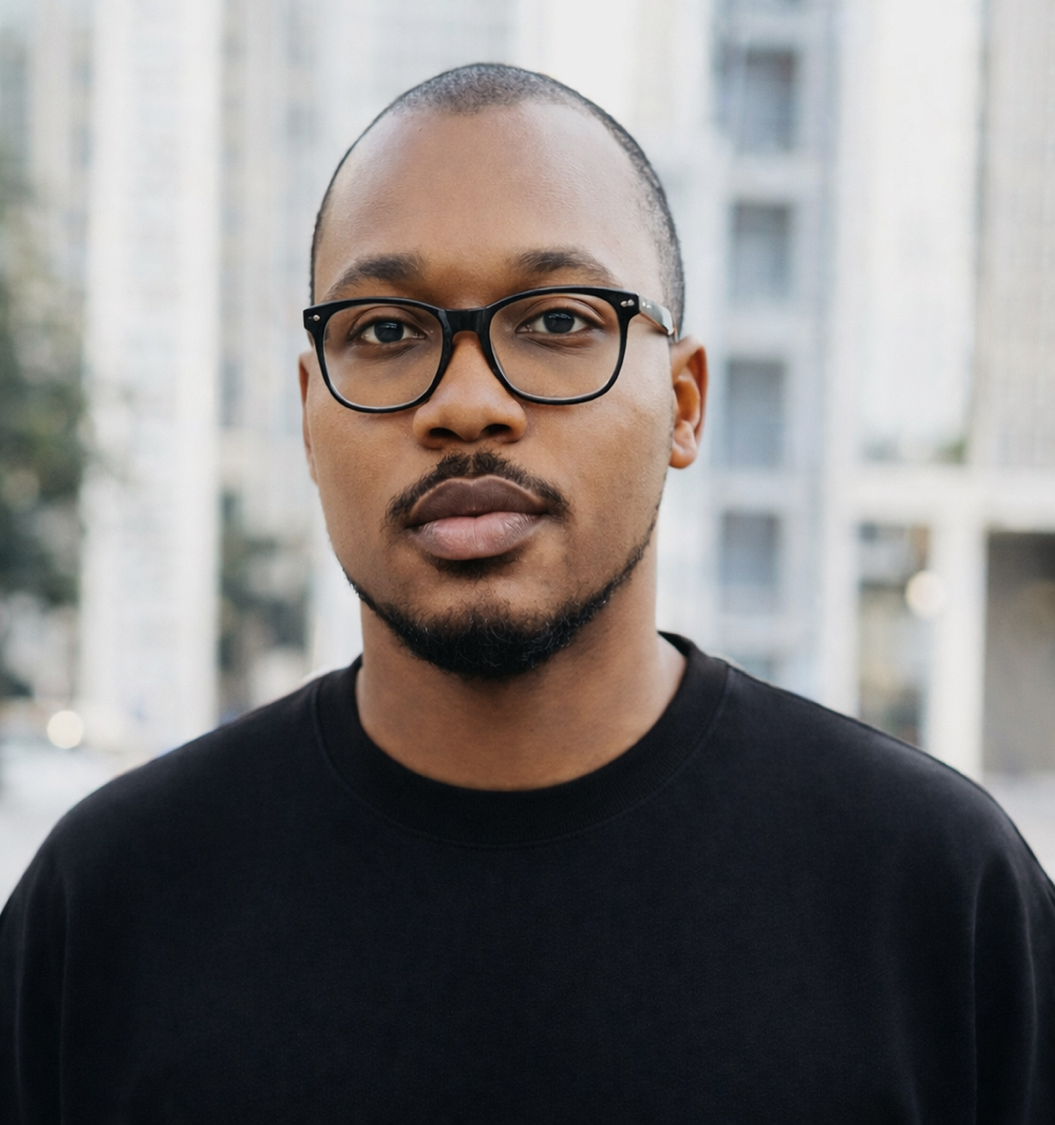
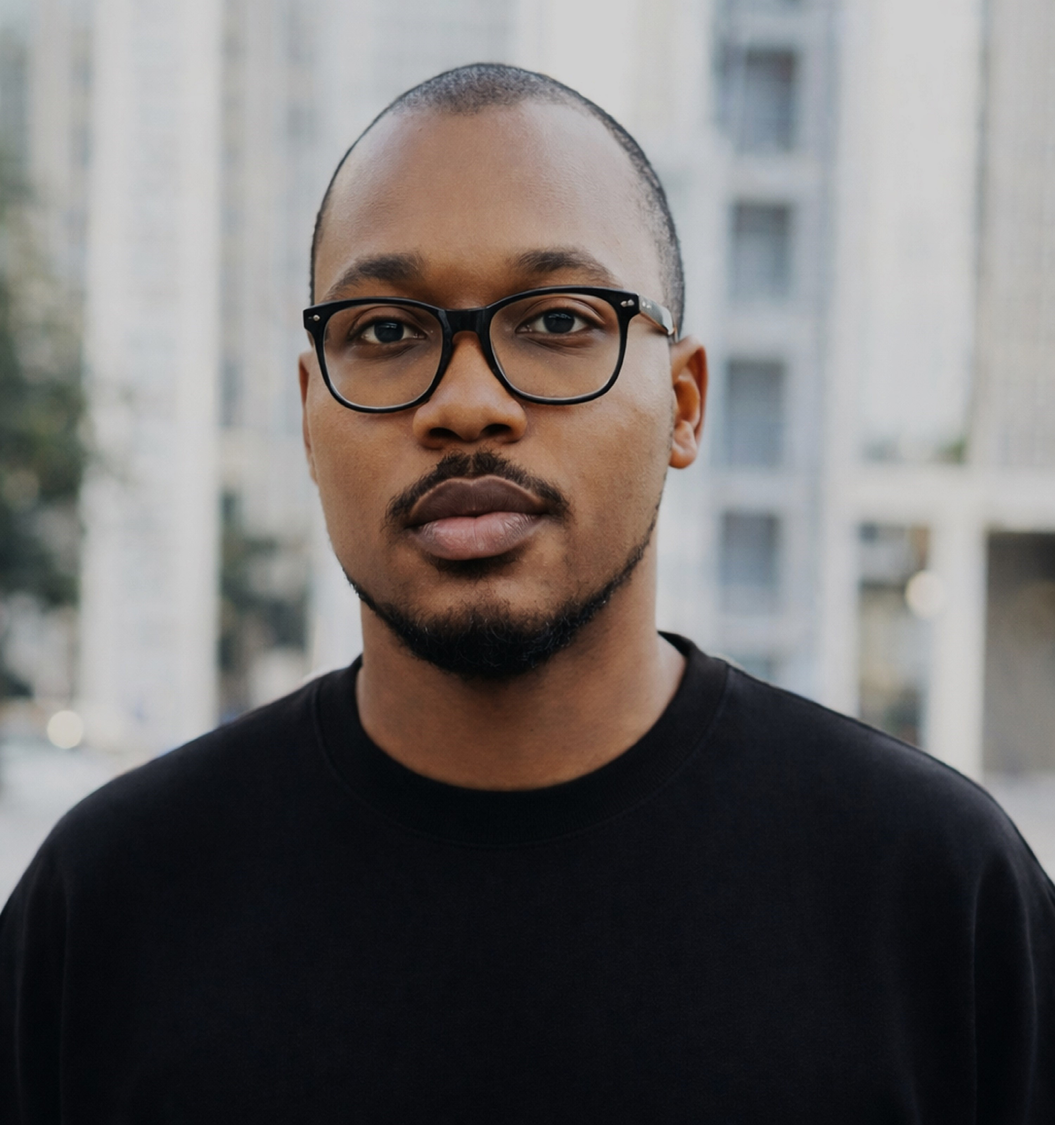
add news

Changed region(s): [[0.0, 0.0, 1.0, 0.8125], [0.961, 0.7188, 1.0, 0.7812], [0.434, 0.3125, 0.496, 0.375]]

diff --git a/_pages/teaching.md b/_pages/teaching.md
@@ -2,17 +2,34 @@
 layout: page
 permalink: /teaching/
 title: teaching
-description: During my undergraduate years at Fulokoja, I volunteered as a Tutor for several math, CS, and physics courses. Here are some of the courses and roles I’ve taken on.
+description: Teaching experience, tutoring, and academic mentoring.
 nav: true
 nav_order: 6
 ---
 
-**Federal University Lokoja**
+## Teaching and Mentoring
 
-- **PHY-111 General Mechanics**
-- **PHY-131 Heat and Properties of Matter**
-- **PHY-211 Mechanics w/Calc**
-- **MTH-111 Elementary Mathematics**
-- **Math/CS General Tutor:** Counseled students with coding (Python, C++), Core CS topics, and computational topics like Calculus, Linear Algebra, and Discrete Structures.
+During my undergraduate studies at Federal University Lokoja, I volunteered as a tutor and academic mentor for courses in mathematics, physics, and computer science. These experiences strengthened my interest in teaching, student support, and clear technical communication.
 
-I really enjoy tutoring and want to keep doing it as I continue my studies. As a first-generation college student, I'm especially passionate about helping students from minority backgrounds. If you think I could help in any way, feel free to reach out!
+## Courses Supported
+
+### Physics
+- **PHY 111:** General Mechanics  
+- **PHY 131:** Heat and Properties of Matter  
+- **PHY 211:** Mechanics with Calculus  
+
+### Mathematics
+- **MTH 111:** Elementary Mathematics  
+
+### Computer Science and Quantitative Support
+- Programming fundamentals in **Python** and **C++**  
+- Core computer science concepts  
+- Calculus  
+- Linear Algebra  
+- Discrete Structures  
+
+## Mentoring Philosophy
+
+I value teaching as a way to make technical subjects more accessible and engaging. I am particularly committed to supporting students from underrepresented and first generation backgrounds, and I hope to continue contributing through teaching and mentorship throughout my academic career.
+
+If you believe I may be helpful in a teaching, tutoring, or mentoring role, please feel free to get in touch.

diff --git a/_pages/about.md b/_pages/about.md
@@ -16,11 +16,12 @@ profile:
 # news: true # includes a list of news items
 announcements:
   enabled: true
+  limit: 20
 selected_papers: true # includes a list of papers marked as "selected={true}"
 social: true # includes social icons at the bottom of the page
 ---
 
-My research interests include Machine Learning, Responsible and Trustworthy AI, Computer Vision, AI in Healthcare, Natural Language Processing, and the Social Impact of Artificial Intelligence. Recently, I served as a Judge in the [Deep Learning Indaba](https://deeplearningindaba.com/2025/) community challenge held in Kigali, Rwanda, where i supported the evaluation of innovative solutions from several teams across different countries in Africa.
+My research focuses on trustworthy machine learning, computer vision, and natural language processing, with an emphasis on healthcare and socially impactful AI systems. Recently, I served as a Judge in the [Deep Learning Indaba](https://deeplearningindaba.com/2025/) community challenge held in Kigali, Rwanda, where i supported the evaluation of innovative solutions from several teams across different countries in Africa.
 
 I graduated with First Class Honours in Computer Science from [Federal University Lokoja](https://www.fulokoja.edu.ng/), earning a Bachelor of Science degree in 2023. I was advised by Mrs. [Fati Oiza Ochepa](https://fulokoja.edu.ng/staff.php?i=870&sn=fati-ochepa). My undergraduate research, titled "Real-Time Road Anomaly Detection via Masked Autoencoder-Enhanced Vision Transformers," explored how self-supervised learning and transformer-based architectures can improve the accuracy and efficiency of computer vision systems in real-world road conditions. For more details, please refer to the [`Publications`](https://ahmadkhalidh.github.io/ahmadkhalid/publications/) section.
 

diff --git a/_news/2023-10-10-first-class-graduation.md b/_news/2023-10-10-first-class-graduation.md
@@ -2,7 +2,7 @@
 layout: post
 date: 2023-10-10
 inline: true
-related_posts: true
+related_posts: false
 ---
 
 I graduated with First Class Honours from Federal University of Lokoja.
